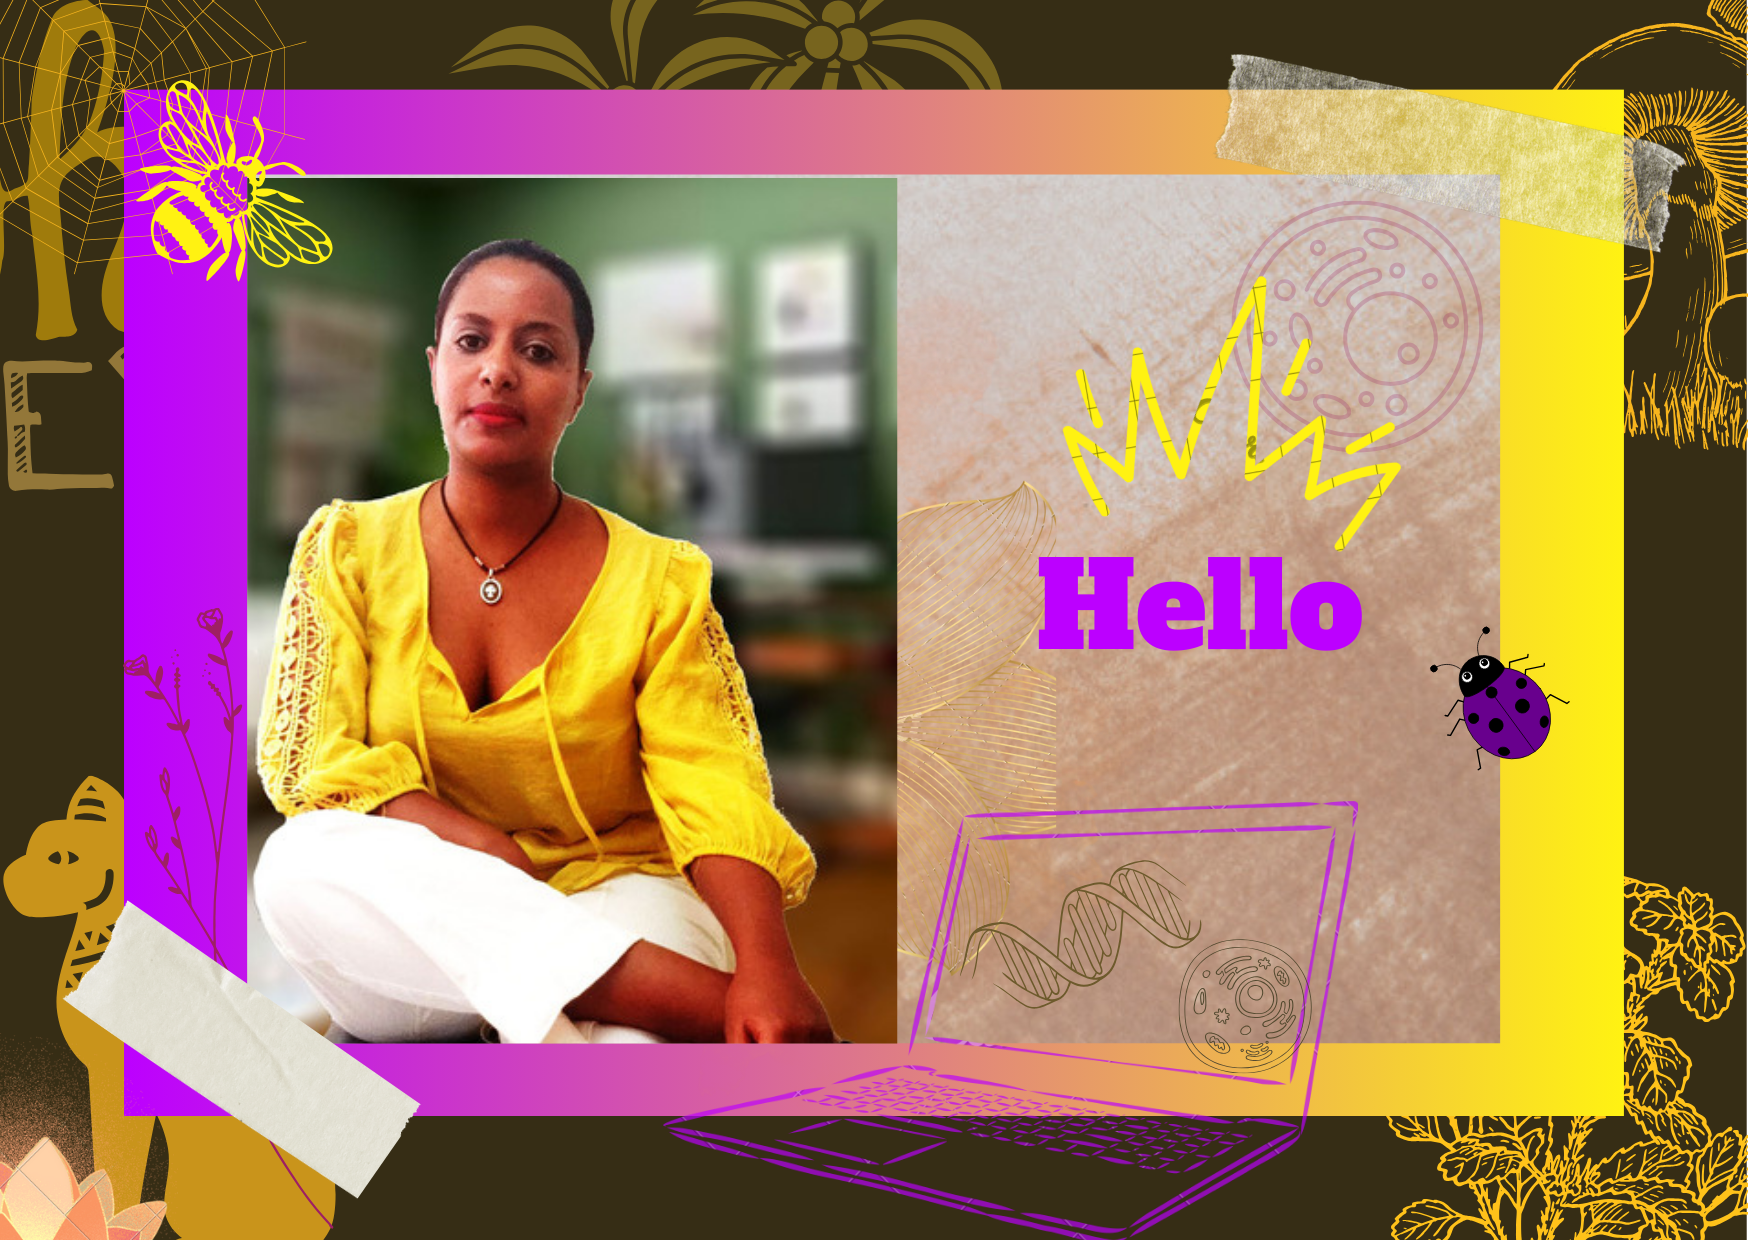
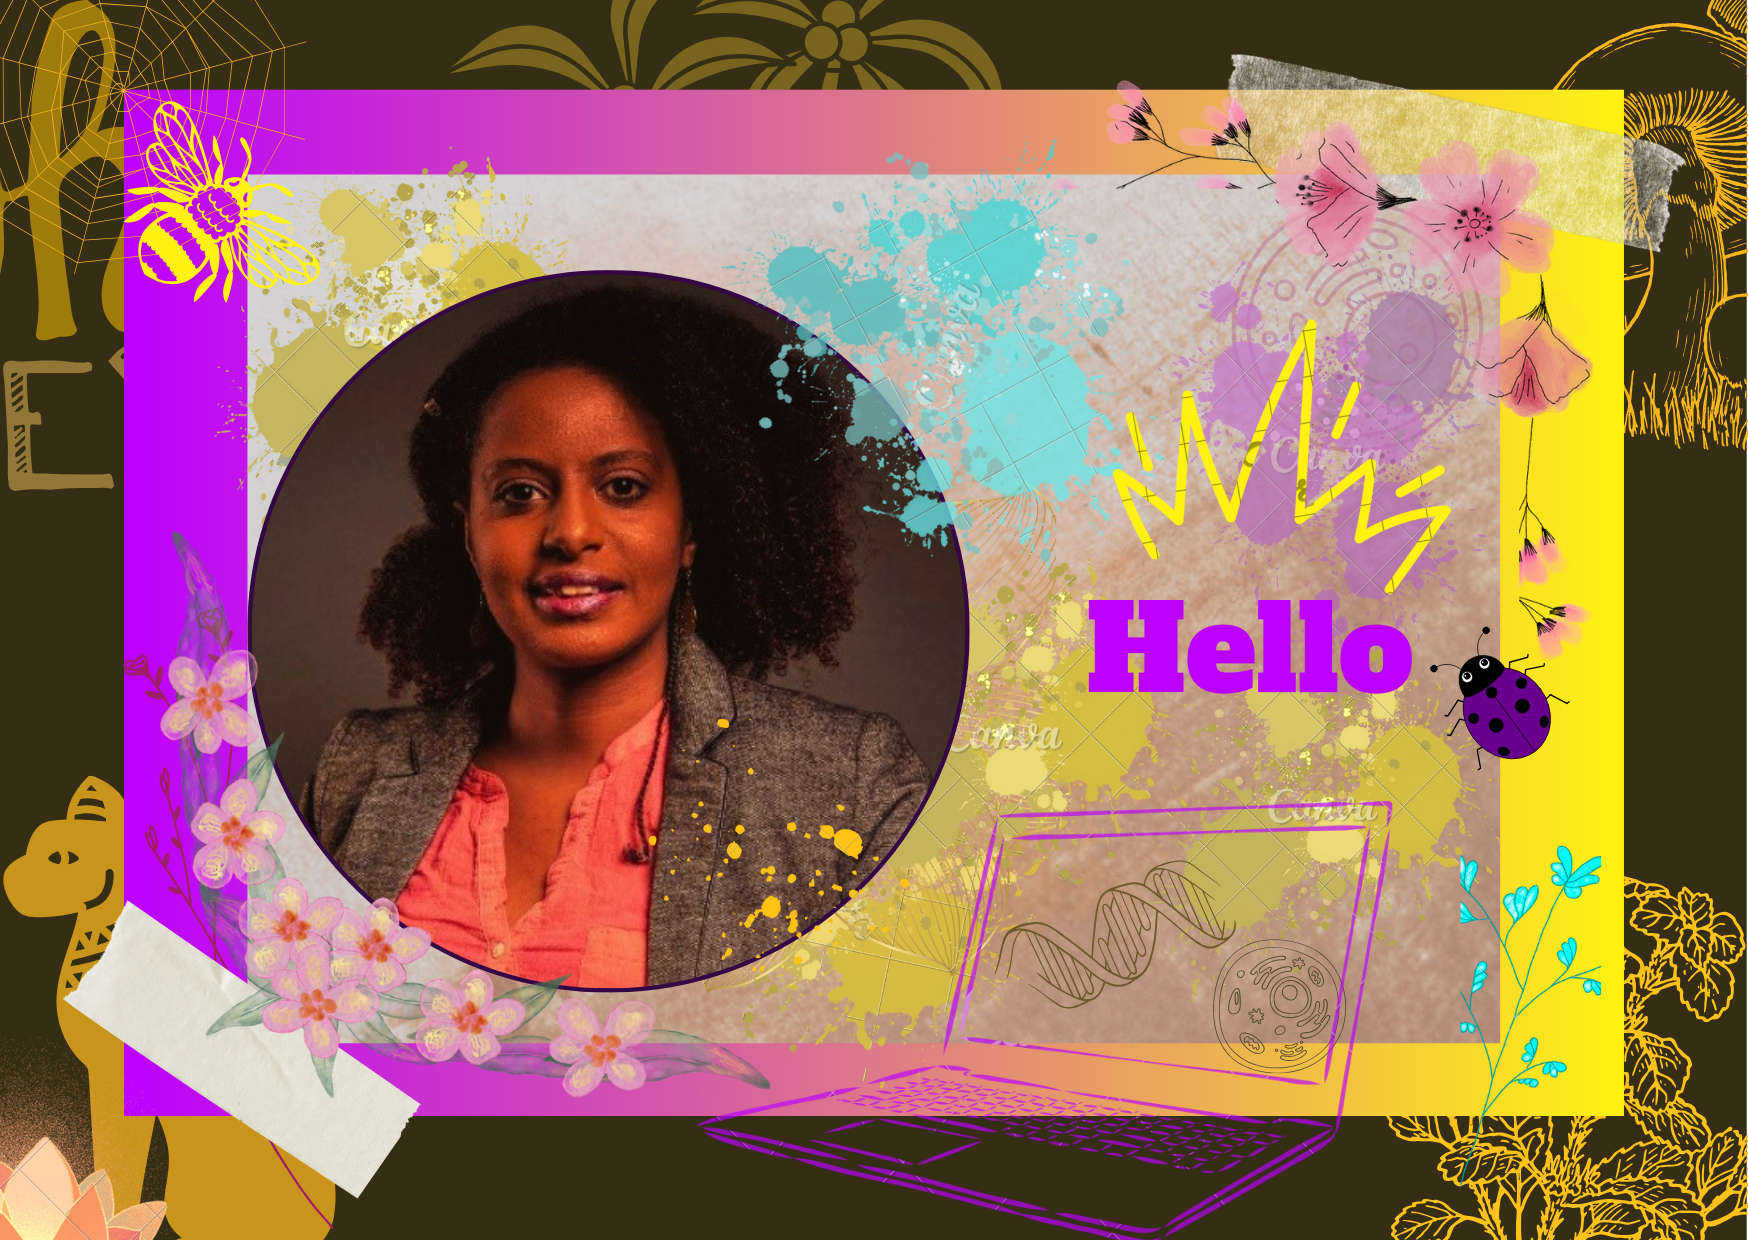
adjusted home profile pic

diff --git a/src/App.css b/src/App.css
@@ -189,7 +189,7 @@
 }
 /* image */
 .home-photo-container{
-  width: 95%;
+  height: 75%;
   border: 1px solid white;
 }
 
